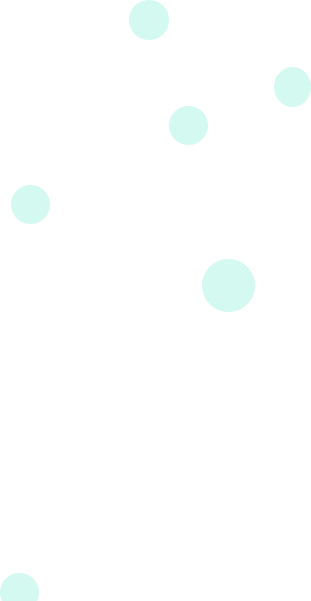
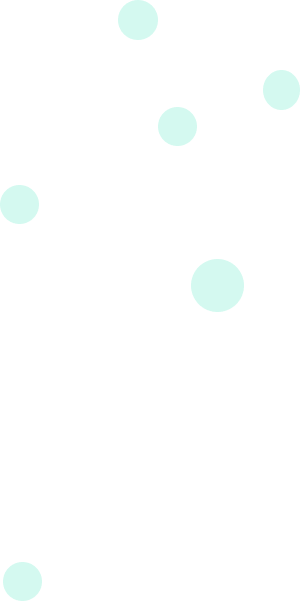
updated front layer png

diff --git a/front-end/flutter_confluence/lib/presentation/pages/home_page.dart b/front-end/flutter_confluence/lib/presentation/pages/home_page.dart
@@ -18,7 +18,7 @@ class _HomePageState extends State<HomePage> {
   static const double toggleButtonPaddingTop = 23.0;
   static const double toggleButtonPaddingBottom = 16.0;
 
-  var top = 160.0;
+  var top = 130.0;
 
   @override
   Widget build(BuildContext context) {
@@ -32,7 +32,7 @@ class _HomePageState extends State<HomePage> {
       body: new NotificationListener(
           onNotification: (notification) {
             if (notification is ScrollUpdateNotification) {
-              if(notification.scrollDelta != null) {
+              if (notification.scrollDelta != null) {
                 final delta = notification.scrollDelta!;
                 setState(() {
                   top += delta / 10;
